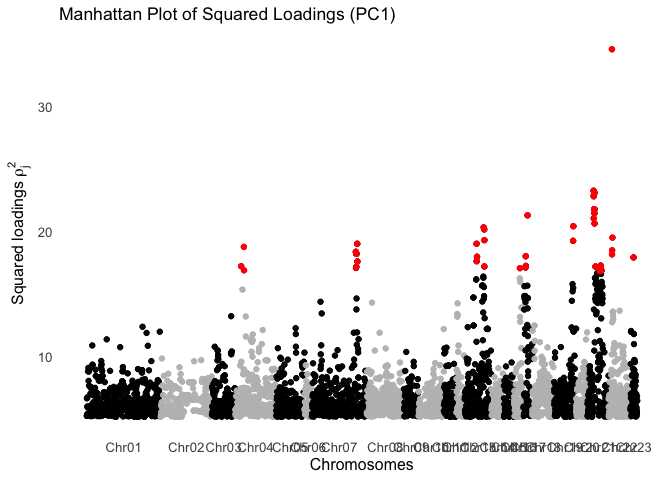
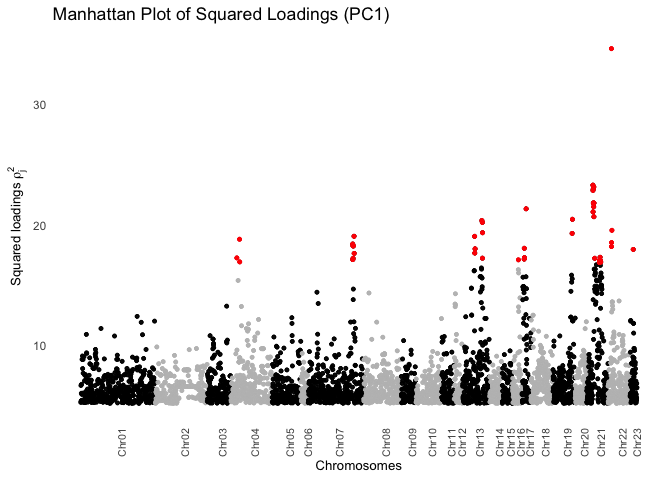
update md

diff --git a/Sea_Cuc_Pop_Gen.md b/Sea_Cuc_Pop_Gen.md
@@ -184,9 +184,9 @@ outliers.](PCA_QC_Outliers.png)
   # Create Manhattan plot
   ggplot(data, aes(x = bp_cum, y = PC1_sqrd)) +
       # Add all points
-      geom_point(aes(color = chr_color), size = 1.5, alpha = 0.8) +
+      geom_point(aes(color = chr_color), size = 1, alpha = 0.8) +
       # Add top SNPs in red
-      geom_point(data = subset(data, Top_100), color = "red", size = 1.5) +
+      geom_point(data = subset(data, Top_100), color = "red", size = 1) +
       # Set colors for chromosomes
       scale_color_manual(values = c("black", "gray")) +
       # Set x-axis labels
@@ -198,8 +198,8 @@ outliers.](PCA_QC_Outliers.png)
           panel.grid.major = element_blank(),
           panel.grid.minor = element_blank(),
           legend.position = "none",
-          axis.text = element_text(size = 10),
-          axis.title = element_text(size = 12)
+          axis.text.x = element_text(size = 8, angle = 90),
+          axis.title = element_text(size = 10)
       ) +
       # Add labels
       labs(title = "Manhattan Plot of Squared Loadings (PC1)",
